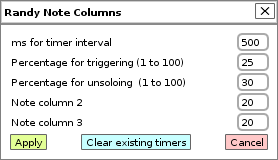
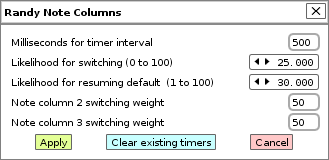
Updating randy readme

diff --git a/lua/com.neurogami.RandyNoteColumns.xrnx/README.md b/lua/com.neurogami.RandyNoteColumns.xrnx/README.md
@@ -46,33 +46,35 @@ The idea is that for any given track, a function is setup to be called at fixed 
 
 The first tool parameter is the timer interval, in milliseconds.  
 
-The second parameter is the percentage likelihood (currently as a number for 0 to 100) that the note column should change from the default first column to one of the other note columns. This is the "percentage for triggering".
+The second parameter is the percentage likelihood (currently as a number for 0 to 100) that the note column should change from the default first column to one of the other note columns. This is the "Likelihood for switching".
 
 Each time the timer function is called it grabs a random number from 1 to 100. If this number is lower than the provided percentage for triggering then the code picks what other column to solo.  If there is only one other column then that's the one that comes to life.
 
-The third parameter is the odds (again, a number from 1 to 100) of reverting back to the first note column if it's not currently playing. This is the "percentage for unsoloing."
+The third parameter is the odds (again, a number from 1 to 100) of reverting back to the first note column if it's not currently playing. This is the "Likelihood for resuming default."
 
-The remaining  parameters are for relative odds of the non-first note columns being selected.  If, for example, the track has three note columns then you'll see fields for "Note column 2" and Note column 3".
+The remaining  parameters are for relative odds of the non-first note columns being selected.  If, for example, the track has three note columns then you'll see fields for "Note column 2 switching weight" and Note column 3 switching weight."
 
-Whatever numbers you put there get normalized so that they represent percentages that total 1.0. 
+Whatever numbers you put there get normalized so that they add up to 100. 
 
-For example, if you entered 30 and 40 for the two columns they'd get converted to 0.43 and 0.57.
+For example, if you entered 30 and 40 for the two columns they'd get converted internally to 43 and 57.  
 
-Yeah, the UI needs to change to make this a little more intuitive.  But it works.
+This means that if a switch is to occur there will be a 43% chance of selecting column 2, and a 57% chance of picking column 3.
 
 So, recap: Decide how often the function passed to the timer gets called.  On each call the function looks to see if note column one is muted. If not, it checks a random number to see if it should mute the first note column and un-mute on of the others. If there is more than one other column to switch to then the assigned relatively odds are used to see which one to pick.
 
-If the first note column is already muted then that second percentage option is used to decide if current;y playing note column should be muted and the first note column restored.
+If the first note column is already muted then that second percentage option is used to decide if currently soloed note column should be muted and the first note column restored.
  
 A use case might go like this:
 
-Set up a track with a snare drum. The first note column is a steady 4/4.  A second note column, mute by default, has a drum roll. A third note column, also mute by default, just adds a secondary snap.
+Set up a track with a snare drum. The first note column is a steady 4/4.  A second note column, mute by default, has a drum roll or triplets. A third note column, also mute by default, just adds a secondary snap (e.g. 2/4 beat).
 
-You only want the snare to alter every so often, so you set the timer interval to 1000 milliseconds and the "percentage for triggering" to 20.   This means once a second (more or less) the function will get called, and on each call there's a 20% change that if the first note column is playing then it will be switched out for either the 2nd or 3rd note column.
+You only want the snare to alter every so often, so you set the timer interval to 1000 milliseconds and the likelihood for switching to 20.   This means once a second (more or less) the associated function will get called, and on each call there's a 20% chance that if the first note column is playing then it will be switched out for either the 2nd or 3rd note column.
 
-You would prefer the extra snap come in a little more often then the roll, so you set the note column values to 30 and 50 because you are poor at math and those numbers just feel right.  The code will convert them to the percentages 0.37 and 0.63, meaning the extra snap is almost-but-not-quite twice as likely to picked as the drum roll.
+You would prefer the extra snap come in a little more often then the roll, so you set the note column values to 30 and 50 because you are poor at math and those numbers just feel right.  Internally the code will convert them to 37% and 63%, meaning the extra snap is almost-but-not-quite twice as likely to be picked as the drum roll.
 
-Since the timer function gets called every second, if either the second or third note column is playing then it will remain playing for a full second. Since you don't want this to go on very long you set the "percentage for unsoloing" to 90.  In practice then you may have this switch-up lasting two second, and just maybe three, but changes are it will jump back to the first note column almost every time,
+Since the timer function gets called every second, if either the second or third note column is playing then it will remain playing for a full second (i.e things stay the same until the timer function gets called again). 
+
+Since you don't want this to go on very long you set the "Likelihood for resuming default" value to 90.  In practice then you may have this switch-up lasting two second, and just maybe three, but changes are it will jump back to the first note column almost every time,
 
 You then click on "Apply" to add the timer function and start the fun.
 
